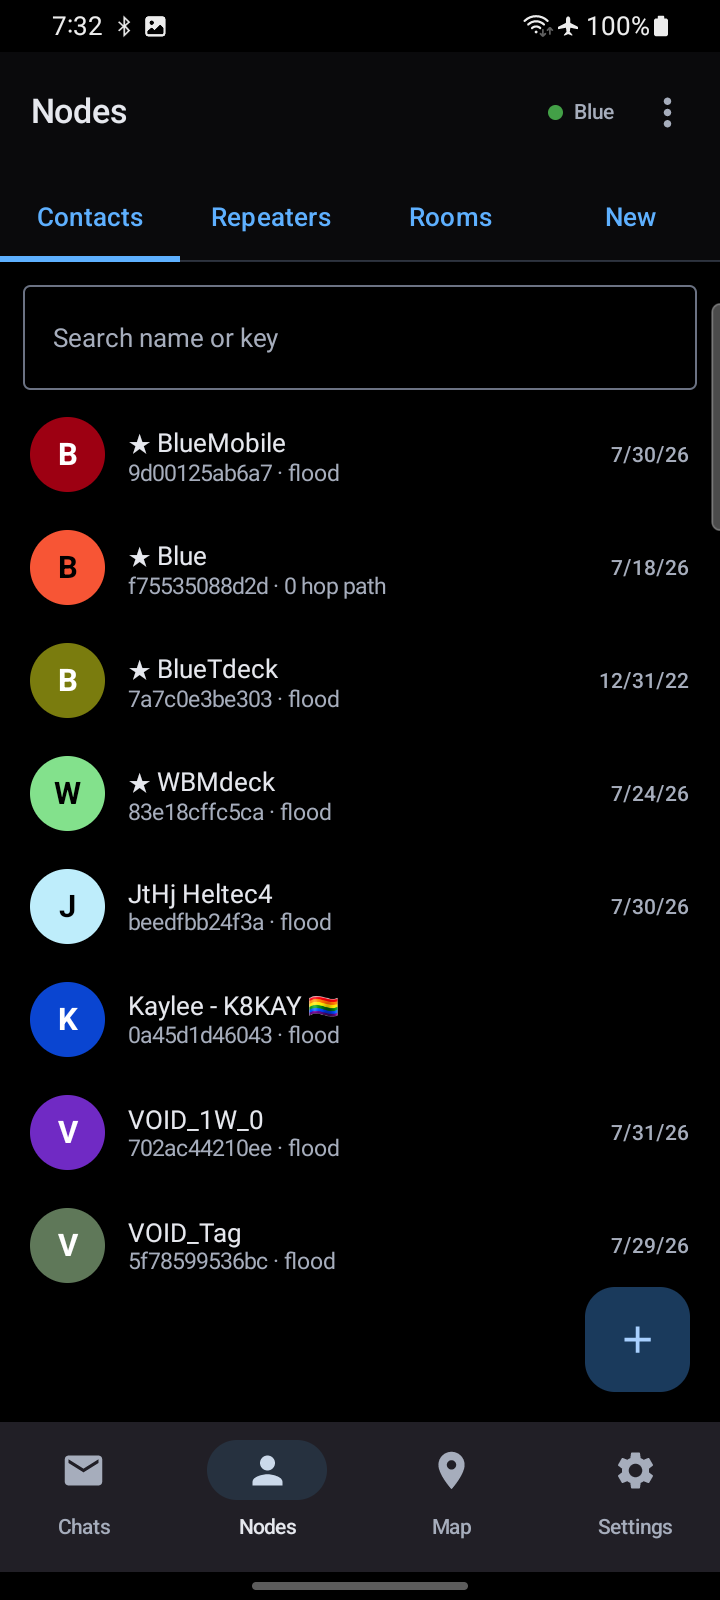
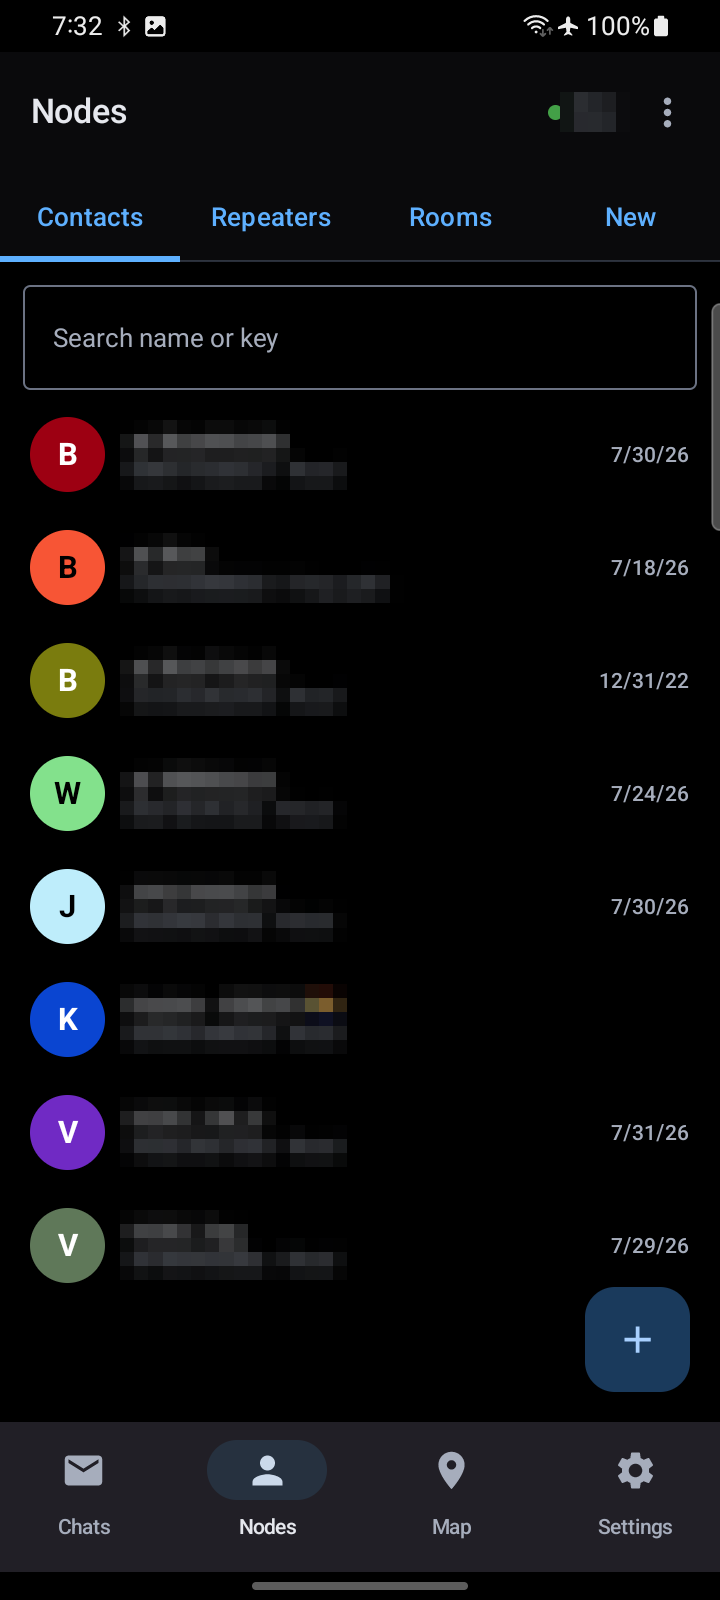
Screenshots: redact personal info, reshoot map and node detail
- Map retaken at the current view (public Wisconsin/Illinois repeater
  infrastructure) instead of centred on home.
- Node-detail retaken against a public community repeater rather than a
  personal one.
- tools/redact_screenshots.py pixelates the remaining personal details:
  this node's name, contact names, message previews, public keys, the
  saved node's BLE MAC, and node coordinates. Pixelation (not blur) -
  blurred text can sometimes be recovered, 14px blocks cannot. The
  script works from docs/screenshots/raw/ originals so it is
  re-runnable; raw/ is gitignored so unredacted captures never land in
  git.

Claude-Session: https://claude.ai/code/session_019t3qgVbtkrcibY7eACURjk

diff --git a/tools/redact_screenshots.py b/tools/redact_screenshots.py
@@ -1,0 +1,82 @@
+#!/usr/bin/env python3
+"""Redact personal details from README screenshots.
+
+Uses heavy pixelation (downscale → upscale with nearest-neighbour)
+rather than a Gaussian blur: blurred text can sometimes be recovered,
+pixelation at this block size cannot. Re-runnable — it always works
+from `raw/` originals, so re-redacting never double-processes.
+
+Usage:  python3 tools/redact_screenshots.py
+"""
+import os
+import shutil
+import sys
+
+from PIL import Image
+
+SHOTS = os.path.join(os.path.dirname(__file__), "..", "docs", "screenshots")
+RAW = os.path.join(SHOTS, "raw")
+BLOCK = 14  # pixel-block size; larger = coarser = less recoverable
+
+# Regions are (x1, y1, x2, y2) on the 720x1600 device screenshots.
+# The status bar and nav bar carry nothing identifying and are left alone.
+NODE_NAME = (560, 92, 630, 132)  # "Blue" — this node's own name, top bar
+
+REGIONS = {
+    # Conversation titles + message previews (contacts, channels, content).
+    "01-chats.png": [NODE_NAME, (120, 195, 520, 630)],
+    # Contact names and public keys.
+    "02-nodes.png": [NODE_NAME, (120, 420, 560, 1280)],
+    # Repeater public keys (the repeater NAMES are public infrastructure).
+    "03-repeaters.png": [NODE_NAME, (120, 455, 400, 1290)],
+    # Map: only this node's name; the view shows public repeaters.
+    "04-map.png": [NODE_NAME],
+    # Connected-node name and the saved node's BLE MAC address.
+    "05-settings.png": [NODE_NAME, (28, 258, 400, 300), (28, 488, 400, 552)],
+    # Background list keys + the sheet's full public key and coordinates.
+    "07-contact-sheet.png": [
+        NODE_NAME,
+        # Full-width here: the list is partly occluded by the sheet, and
+        # half-redacted names read as sloppy rather than deliberate.
+        (120, 420, 560, 800),
+        (40, 1030, 690, 1095),   # public key (two lines)
+        (40, 1140, 400, 1180),   # lat/lon
+    ],
+}
+
+
+def pixelate(img: Image.Image, box) -> None:
+    x1, y1, x2, y2 = box
+    x1, y1 = max(0, x1), max(0, y1)
+    x2, y2 = min(img.width, x2), min(img.height, y2)
+    if x2 <= x1 or y2 <= y1:
+        return
+    region = img.crop((x1, y1, x2, y2))
+    small = region.resize(
+        (max(1, region.width // BLOCK), max(1, region.height // BLOCK)),
+        Image.BILINEAR,
+    )
+    img.paste(small.resize(region.size, Image.NEAREST), (x1, y1))
+
+
+def main() -> int:
+    os.makedirs(RAW, exist_ok=True)
+    for name, boxes in REGIONS.items():
+        current = os.path.join(SHOTS, name)
+        original = os.path.join(RAW, name)
+        # First run for a file: stash the untouched capture.
+        if not os.path.exists(original):
+            if not os.path.exists(current):
+                print(f"skip {name} (missing)")
+                continue
+            shutil.copy2(current, original)
+        img = Image.open(original).convert("RGB")
+        for box in boxes:
+            pixelate(img, box)
+        img.save(current, optimize=True)
+        print(f"redacted {name} ({len(boxes)} regions)")
+    return 0
+
+
+if __name__ == "__main__":
+    sys.exit(main())
